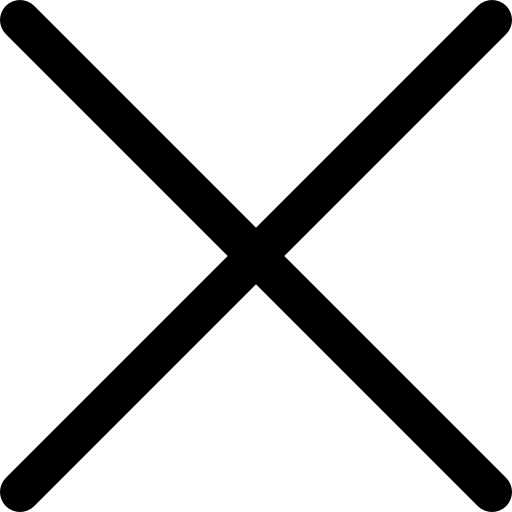
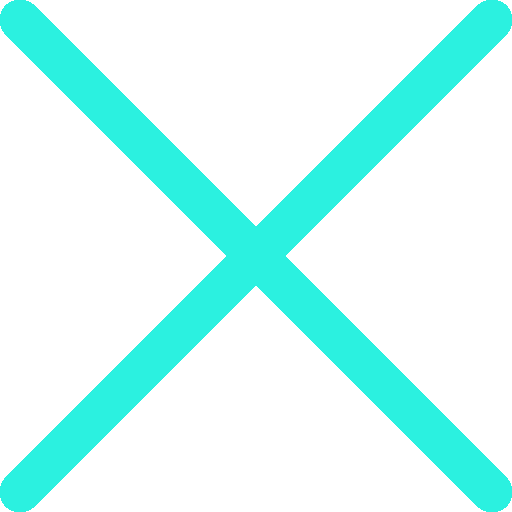
Update

Changed region(s): [[0.0, 0.0, 1.0, 1.0]]

diff --git a/styles.css b/styles.css
@@ -5,7 +5,7 @@
 }
 body {
     font-family: Quicksand, sans-serif;
-    background-color: #ddf2ff;
+    background-color: #ffffff;
     font-size: 20px;
 }
 body p {
@@ -32,7 +32,7 @@ header {
     top: 0;
     left: 0;
     padding: 1.5rem 6rem;
-    background: #d1d6dc;
+    background: rgba(209, 214, 220, 0.7);
     backdrop-filter: blur(10px);
     box-shadow: 0 0 30px rgba(0, 0, 0, 0.4);
     z-index: 10;
@@ -277,7 +277,8 @@ h2 {
 #titelbild3::before,
 #titelbild4::before,
 #titelbild5::before,
-#titelbild6::before {
+#titelbild6::before,
+#titelbild12::before {
     content: '';
     position: absolute;
     top: 0;
@@ -288,7 +289,7 @@ h2 {
     z-index: 2;
 }
 #top-titel {
-    background-color: rgba(3, 102, 229, 0.9);
+    background-color: rgba(209, 214, 220, 0.9);
 }
 .top-titels {
     max-width: 1500px;
@@ -298,11 +299,11 @@ h2 {
 }
 .top-titels h2 {
     font-size: 3.5rem;
-    text-shadow: 1px 2px 1px black;
+    color: #d40e1f;
 }
 .top-titels p {
     font-size: 1.4rem;
-    color: white;
+    color: black;
     margin-top: 1.7rem;
     max-width: 900px;
     line-height: 2.5rem;
@@ -356,14 +357,14 @@ th, td {
 /*FORM*/
 #anfrage {
     margin-top: 2rem;
-    background-color: rgba(3, 102, 229, 0.9);
+    background-color: rgba(209, 214, 220, 0.9); 
     padding: 2rem 0;
 }
 #anfrage h4 {
     text-align: center;
     font-size: 3rem;
     margin: 2rem 0;
-    color: white;
+    color: #d40e1f;
 }
 label span {
     color: red;
@@ -476,7 +477,7 @@ textarea {
     margin: 3rem 0;
 }
 .article-h2 {
-    color: #194B8A;
+    color: #d40e1f;
     font-size: 1.6rem;
     padding: 1rem 0;
     text-align: left;
@@ -485,7 +486,7 @@ textarea {
     cursor: pointer;
 }
 article {
-border: 2px solid #194B8A;
+border: 2px solid black;
 padding: 0 1rem;
 margin: 1em auto;
 transition: 0.3s;
@@ -512,7 +513,7 @@ top: -100vh; left: -100vh;
 }
 }
 #abholservice {
-    background-color: #194B8A;
+    background-color: rgba(209, 214, 220, 0.9);
 }
 .inner-abholservice {
     display: flex;
@@ -520,12 +521,13 @@ top: -100vh; left: -100vh;
     margin: 0 auto;
     align-items: center;
     gap: 8rem;
-    color: white;
+    color: black;
     width: 90%;
 }
 .inner-abholservice h3 {
     font-size: 2.8rem;
     margin-bottom: 1rem;
+    color: #d40e1f;
 }
 .link-box {
     display: flex;
@@ -533,9 +535,9 @@ top: -100vh; left: -100vh;
     margin-bottom: 2rem;
 }
 .inner-abholservice a {
-    color: white;
+    color: black;
     text-decoration: none;
-    border: 3px solid white;
+    border: 3px solid black;
     border-radius: 3rem;
     display: flex;
     justify-content: center;
@@ -547,7 +549,6 @@ top: -100vh; left: -100vh;
 }
 .inner-abholservice a:hover {
     background: white;
-    color:  #194B8A;
     font-weight: 800;
 }
 .abholservice-img {
@@ -725,15 +726,18 @@ top: -100vh; left: -100vh;
 .timeline ul {
     padding: 50px 0;
 }
-
+.timeline .kleiner time {
+    color: #d40e1f;
+    font-size: 1.4rem;
+}
 .timeline ul li {
     list-style-type: none;
     position: relative;
     width: 6px;
     margin: 0 auto;
     padding-top: 50px;
-    background: rgba(3, 102, 229, 0.9);
-    color: white;
+    background: #d40e1f;
+    color: black;
 }
 
 .timeline ul li::after {
@@ -754,7 +758,7 @@ top: -100vh; left: -100vh;
     bottom: 0;
     width: 600px; /* Breite angepasst */
     padding: 15px;
-    background: rgba(3, 102, 229, 0.9);
+    background: rgba(209, 214, 220, 0.9);
 }
 
 .timeline ul li div img {
@@ -780,7 +784,7 @@ top: -100vh; left: -100vh;
 .timeline ul li:nth-child(odd) div::before {
     left: -15px;
     border-width: 8px 16px 8px 0;
-    border-color: transparent #000000 transparent transparent;
+    border-color: transparent #d40e1f transparent transparent;
 }
 
 .timeline ul li:nth-child(even) div {
@@ -790,7 +794,7 @@ top: -100vh; left: -100vh;
 .timeline ul li:nth-child(even) div::before {
     right: -15px;
     border-width: 8px 0 8px 16px;
-    border-color: transparent transparent transparent #000000;
+    border-color: transparent transparent transparent #d40e1f;
 }
 
 time {
@@ -808,7 +812,7 @@ time {
 }
 
 .timeline ul li.in-view::after {
-    background: #000000;
+    background: #d40e1f;
 }
 
 .timeline ul li div {
@@ -925,7 +929,7 @@ time {
 }
 #impressum h1, 
 #impressum h2 {
-    color: black;
+    color: #d40e1f;
     text-align: left;
 }
 #impressum h1 {
@@ -936,6 +940,7 @@ time {
     margin: 3rem 0 1.5rem 0; 
 }
 #impressum h3 {
+    color: #d40e1f;
     font-size: 1.8rem;
     margin: 2rem 0 0.5rem 0;
 }
@@ -951,13 +956,28 @@ time {
 #impressum li {
     margin-left: 3rem;
 }
-/* ------------------ IMPRESSUM ------------------ */
+/* ------------------ DATENSCHUTZ ------------------ */
 #titelbild11 {
     width: 100%;
     height: 50svh;
     background-image: url(media/lastwagen-im-wald.webp);
     background-size: cover;
     background-position: 40% 17%;
+}
+/* ------------------ WINTERDIENST ------------------ */
+#titelbild12 {
+    position: relative;
+    width: 100%;
+    height: 70svh;
+    min-height: 600px;
+    background: url(media/Schneeraeumung.jpg);
+    background-size: cover;
+    background-position: 60% 40%;
+    z-index: 1;
+    display: flex;
+    justify-content: center;
+    align-items: center;
+    flex-direction: column;
 }
 /*---------------------FOOTER---------------------*/
 footer {
@@ -1073,7 +1093,7 @@ footer h3 {
     }
     nav {
         flex-direction: column;
-        margin-top: 6rem;
+        margin-top: 2rem;
     }
     nav ul {
         flex-direction: column;
@@ -1092,7 +1112,7 @@ footer h3 {
         right: 1rem;
         z-index: 10;
         cursor: pointer;
-        background: rgba(252, 153, 26, 0.7);
+        background: rgba(43, 241, 224, 0.7);
     }
     #menu-btn {
         filter: invert(100%);
@@ -1108,9 +1128,6 @@ footer h3 {
     }
     .firstdrop {
         display: none;
-    }
-    nav ul li:nth-of-type(4) {
-        transform: translateY(-15px);
     }
     .dropbtn {
         background-color: transparent;

diff --git a/winterdienst/index.html b/winterdienst/index.html
@@ -65,30 +65,25 @@
     </div>
     <main>
         <section class="hero-bild">
-            <div id="titelbild3" class="bild2" role="img" aria-label="Lastwagen mit Kippmulden auf einem Sammelplatz der Bucher Transport AG">
+            <div id="titelbild12" class="bild2" role="img" aria-label="Lastwagen mit Kippmulden auf einem Sammelplatz der Bucher Transport AG">
                 <h1>WINTERDIENST</h1>
                 <div class="kleinzeil"></div>
-                <h2>DIESE SEITE ENTSTEHT NOCH</h2>
+                <h2>Sicher und pünktlich</h2>
             </div>
         </section>
 
         <section id="abholservice">
             <div class="inner-abholservice">
                 <div>
-                    <h3>Beispieltext</h3>
-                    <p class="kleiner">Wir freuen uns, Ihnen unseren neuen 3,5-Tonnen-Abholservice-Bus vorzustellen! Ab sofort bieten wir die 
-                        Abholung von jeglichen Abfällen an – schnell, flexibel und zuverlässig. Egal ob Sperrmüll, Grünschnitt 
-                        oder sonstige Entsorgungen, wir sind für Sie da. Unser Ziel ist es, Ihnen den Transport und die 
-                        Entsorgung so einfach wie möglich zu machen. Kontaktieren Sie uns noch heute, um einen Termin zu 
-                        vereinbaren!
+                    <h3>Winterdienst – Sicher durch die kalte Jahreszeit</h3>
+                    <p class="kleiner">Unser Winterdienst sorgt zwischen Alberswil und Dagmersellen sowie in Ebersecken und Gettnau für rutschfeste 
+                        Kantonsstrassen. Mit modernster Ausrüstung und erfahrenem Personal gewährleisten wir eine sichere Befahrbarkeit, auch bei 
+                        Schnee und Eis. Dank effizienter Schneeräumung und gezieltem Einsatz von Streusalz tragen wir dazu bei, die Verkehrssicherheit 
+                        auf diesen wichtigen Verkehrsachsen jederzeit zu gewährleisten. 
                     </p>
-                    <div class="link-box">
-                        <a class="kleiner" href="tel:+41419820075">ANRUFEN</a>
-                        <a class="kleiner" href="mailto:buchertransporte@bluewin.ch">E-MAIL</a>
-                    </div>
                 </div>
                 <div class="abholservice-img">
-                    <img src="../media/abholservice.webp" alt="Ein Kleinbus für Abholservicees der K. & M. Bucher Transporte AG">
+                    <img  src="../media/Schneeraeumung3.jpg" alt="Ein Kleinbus für Abholservicees der K. & M. Bucher Transporte AG">
                 </div>
             </div>
         </section>

diff --git a/geschichte/index.html b/geschichte/index.html
@@ -6,7 +6,7 @@
 
         <!--META DESCRIPTIONS-->
         <meta name="description" content="Die Geschichte der K. & M. Bucher Transporte AG, von damals bis heute">
-        <meta name="keywords" content="Bucher Transporte AG, Bucher, Jobs, Offene Stellen, Jobangebote, Schötz, Chauffeur, Chauffeur C, Kat. C, Recyclist, Staplerfahrer, Schötz, 6247, Luzern, WEB-WORX, Nino Binda">
+        <meta name="keywords" content="Bucher Transporte AG, Bucher, Geschichte, Werdegang, Von damals bis heute, Schötz, Chauffeur, Chauffeur C, Kat. C, Recyclist, Staplerfahrer, Schötz, 6247, Luzern, WEB-WORX, Nino Binda">
         <meta name="author" content="Nino Binda von WEB-WORX / https://web-worx.ch/">
         <!-- Basic Open Graph Tags -->
         <meta property="og:title" content="Geschichte der K. & M. Bucher Transporte AG">
